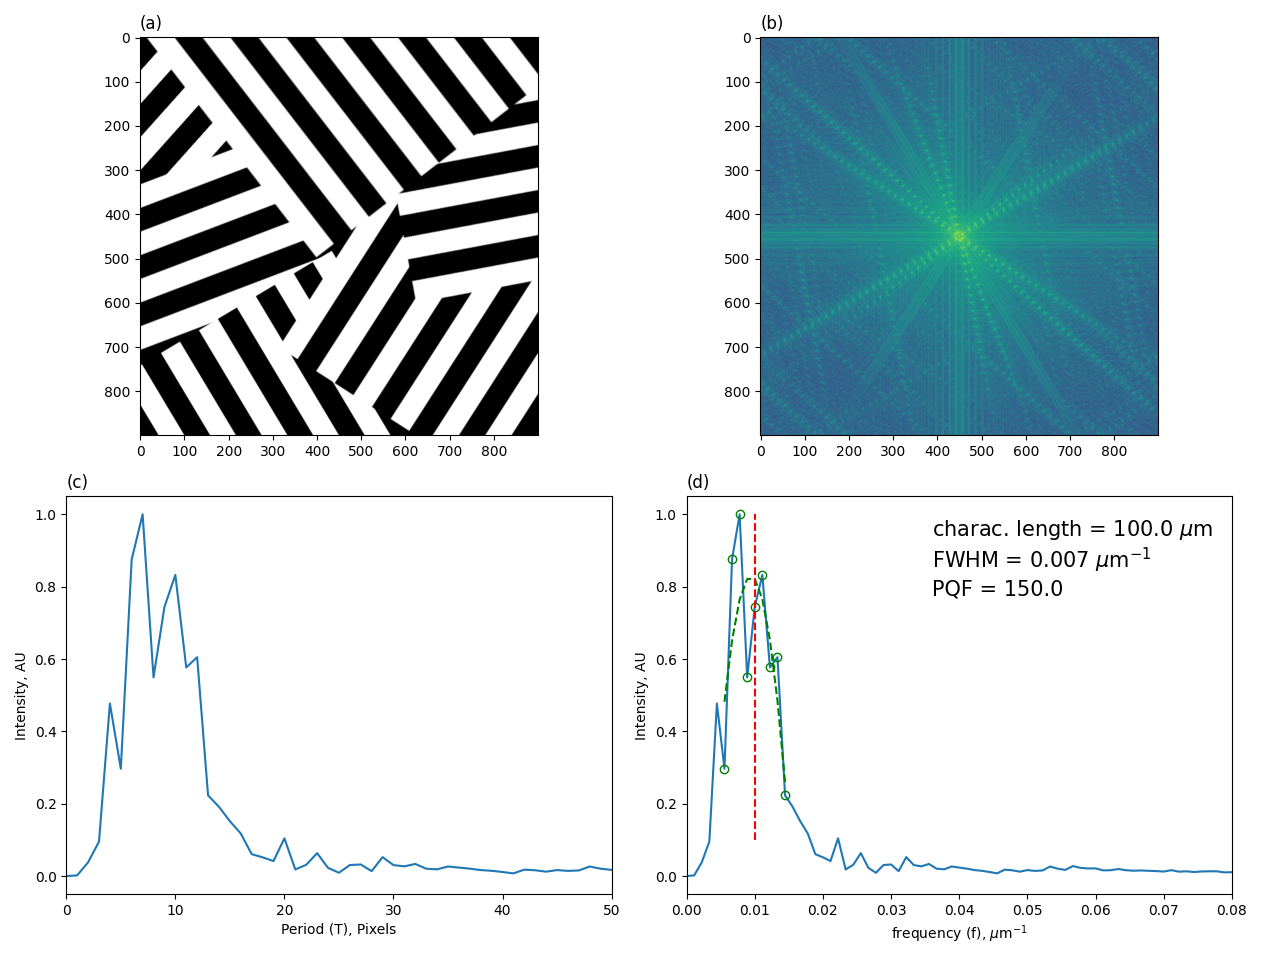
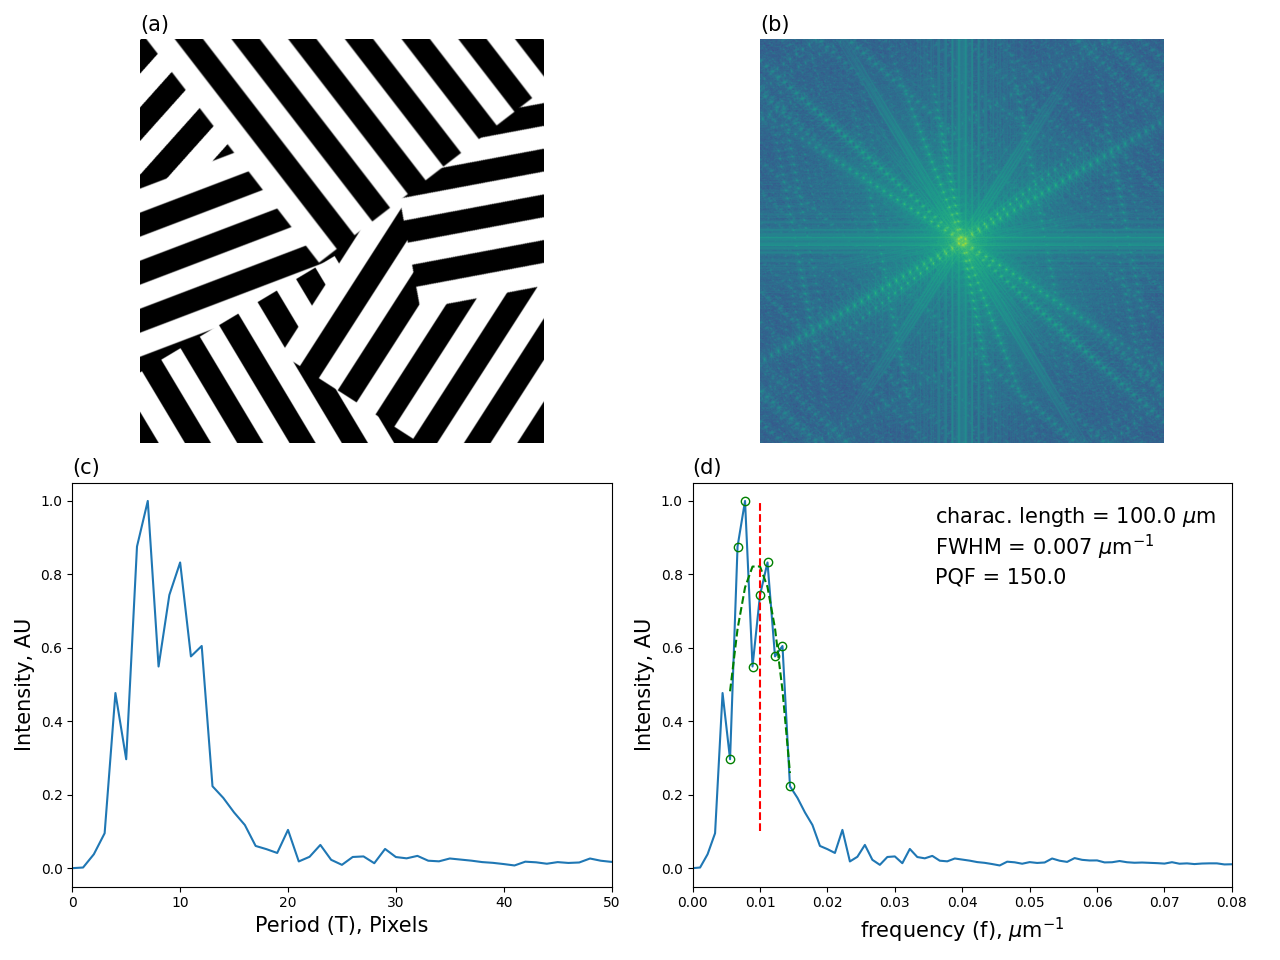
updated the summary figure of the tessellation test case

diff --git a/test_cases/synthetic_images/tessellation/src/tessellation.py b/test_cases/synthetic_images/tessellation/src/tessellation.py
@@ -75,29 +75,29 @@ LINEWIDTH = 3; ROLLWINDOW = 100                 # plot spec
 NROWS = 2; NCOLS = 2
 f, axs = plt.subplots(nrows=NROWS,ncols=NCOLS,
                       figsize=(NCOLS*FIGWIDTH,NROWS*FIGHEIGHT))
-axs[0,0].imshow(img_tessellation, cmap='gray')
-axs[0,0].set_title("(a)", loc='left')
-# axs[0,0].set_title("Original image")
+axs[0,0].imshow(img_tessellation, cmap='gray') # original image
+axs[0,0].set_title("(a)", loc='left', fontsize=TITLEFONT)
+axs[0,0].axis("off")
 
-axs[0,1].imshow(np.log(psd2D))
-axs[0,1].set_title("(b)", loc='left')
-# axs[0,1].set_title("Center-shifted 2D Power Spectral Density")
+axs[0,1].imshow(np.log(psd2D)) # log(2D PSD)
+axs[0,1].set_title("(b)", loc='left', fontsize=TITLEFONT)
+axs[0,1].axis("off")
 
-axs[1,0].plot(rasp_norm_au)
-axs[1,0].set_title("(c)", loc='left')
+axs[1,0].plot(rasp_norm_au) # radially averaged PSD
+axs[1,0].set_title("(c)", loc='left', fontsize=TITLEFONT)
 # axs[1,0].set_title("Radially Averaged PSD (RASP)")
-axs[1,0].set_ylabel("Intensity, AU")
-axs[1,0].set_xlabel("Period (T), Pixels")
+axs[1,0].set_ylabel("Intensity, AU", fontsize=TITLEFONT)
+axs[1,0].set_xlabel("Period (T), Pixels", fontsize=TITLEFONT)
 axs[1,0].set_xlim([0,50])
 
-axs[1,1].plot(1/lam[:rasp_length],rasp_norm_au)
+axs[1,1].plot(1/lam[:rasp_length],rasp_norm_au) # radially averaged PSD in spatial frequency
 axs[1,1].plot(x_pop1,y_pop1,linestyle='none',marker='o',fillstyle='none',color='green')
 axs[1,1].plot(x_pop1,mdl_pop1,linestyle='--',color='green')
 axs[1,1].vlines(pop1_feature_size,ymin=0.1,ymax=1,linestyle='--',color='red')
-axs[1,1].set_title("(d)", loc='left')
+axs[1,1].set_title("(d)", loc='left', fontsize=TITLEFONT)
 # axs[1,1].set_title("RASP in spatial frequency")
-axs[1,1].set_ylabel("Intensity, AU")
-axs[1,1].set_xlabel("frequency (f), $\mu$m$^{-1}$")
+axs[1,1].set_ylabel("Intensity, AU", fontsize=TITLEFONT)
+axs[1,1].set_xlabel("frequency (f), $\mu$m$^{-1}$", fontsize=TITLEFONT)
 axs[1,1].set_xlim([0,0.08])
 axs[1,1].annotate('charac. length = ' + str(np.around(1/pop1_feature_size[0],decimals=0)) + ' $\mu$m',
                 xy=(0.45,0.9), xycoords='axes fraction', fontsize=TEXTFONT)
